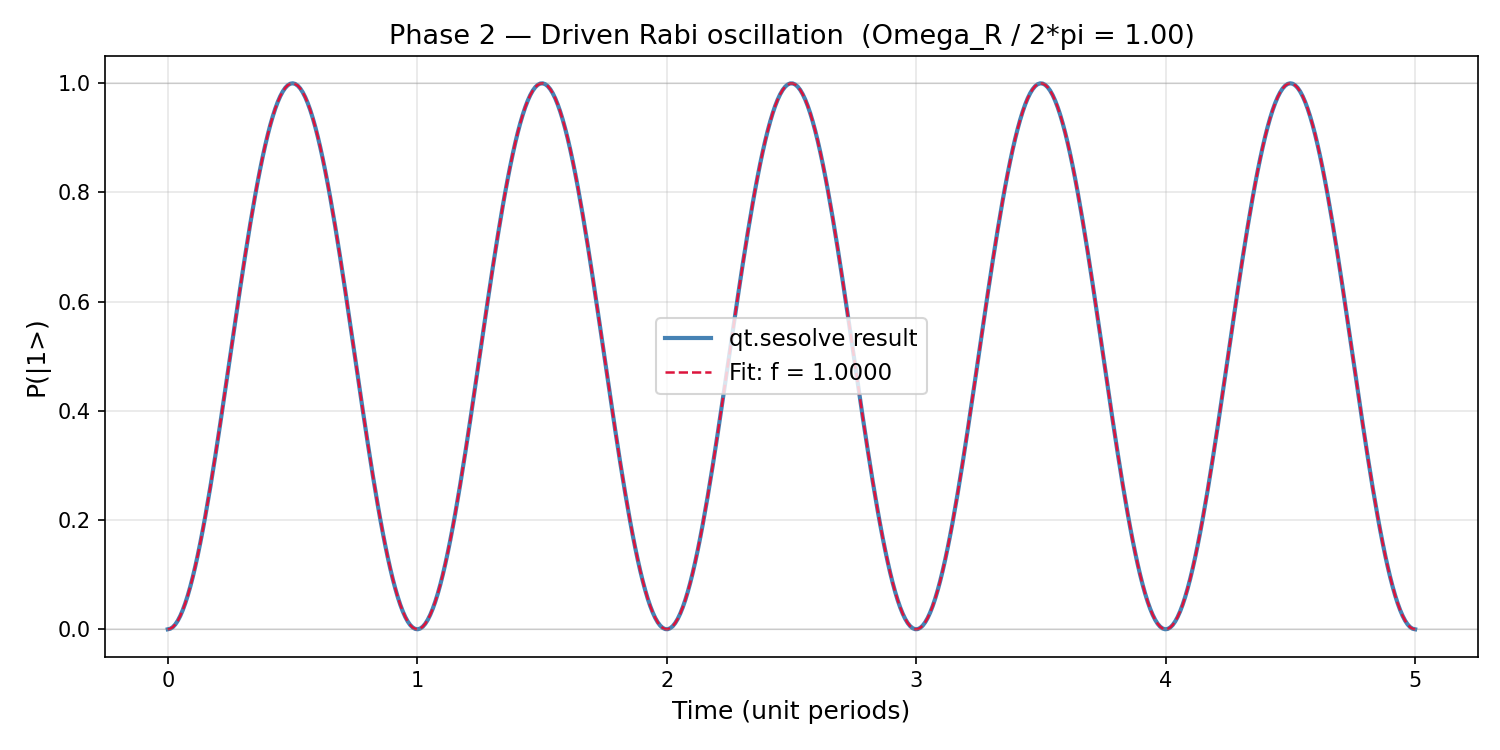
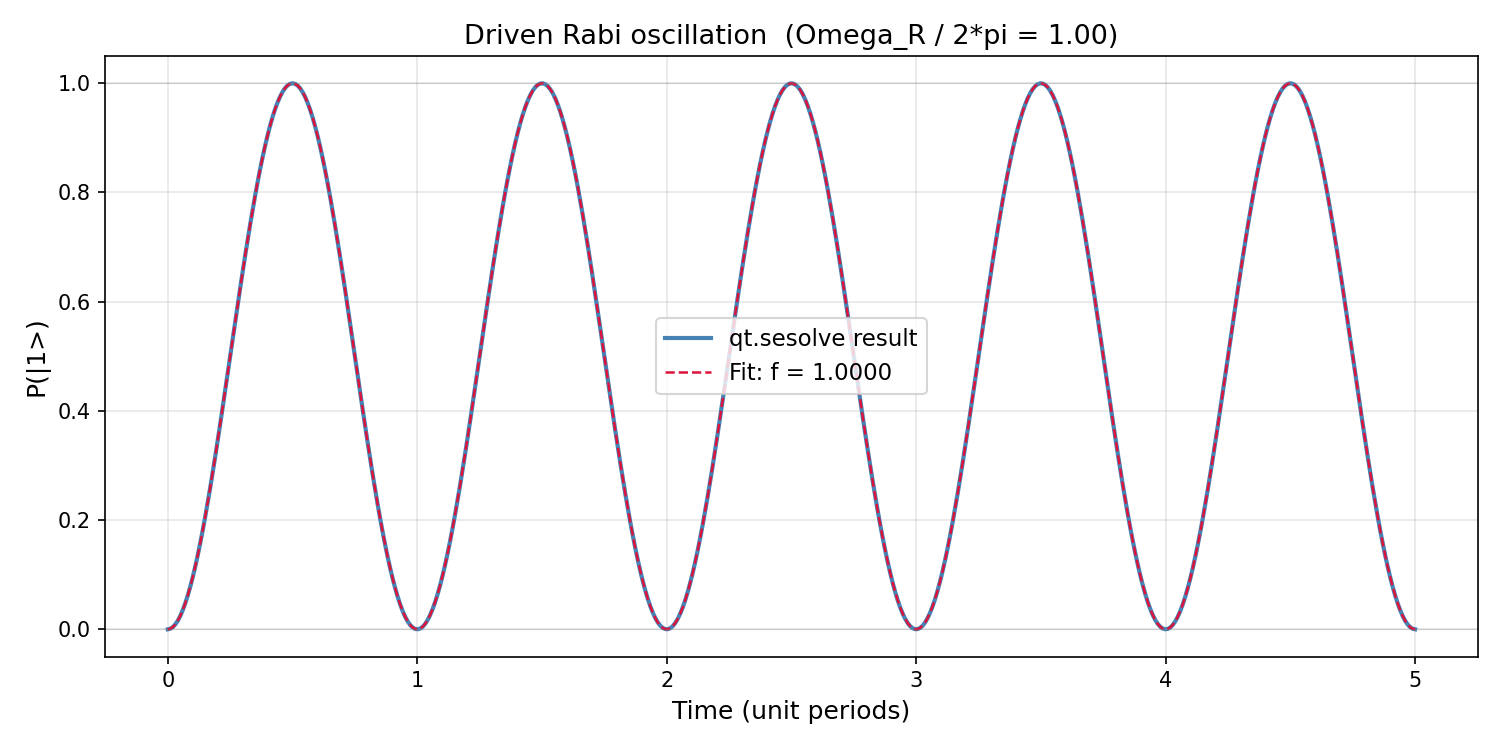
Regenerate Rabi plots: clean title, switch Bloch trajectory to plain matplotlib 3D

Changed region(s): [[0.2453, 0.0307, 0.7973, 0.0613]]

diff --git a/experiments/driven_rabi.py b/experiments/driven_rabi.py
@@ -109,27 +109,57 @@ print(f"Saved: {save_path}")
 # ── 6. BONUS: Bloch sphere trajectory ────────────────────────────────────────
 # Re-solve and capture the state at each time (states=True). This traces the
 # Bloch sphere trajectory of the precession.
+#
+# Plain matplotlib 3D is used here instead of qt.Bloch because qt.Bloch's
+# renderer produces an empty figure on some matplotlib + Windows setups.
 result_states = qt.sesolve(H, psi0, times)
 trajectory = result_states.states
 
 # Compute Bloch vector at every step
-sx_traj = [qt.expect(qt.sigmax(), s) for s in trajectory]
-sy_traj = [qt.expect(qt.sigmay(), s) for s in trajectory]
-sz_traj = [qt.expect(qt.sigmaz(), s) for s in trajectory]
+sx_traj = np.array([qt.expect(qt.sigmax(), s) for s in trajectory])
+sy_traj = np.array([qt.expect(qt.sigmay(), s) for s in trajectory])
+sz_traj = np.array([qt.expect(qt.sigmaz(), s) for s in trajectory])
 
 fig = plt.figure(figsize=(7, 7))
 ax = fig.add_subplot(111, projection="3d")
-b = qt.Bloch(axes=ax)
-b.add_points([sx_traj, sy_traj, sz_traj], meth="l")  # 'l' = line
-b.add_states(psi0)                                    # mark the start
-b.frame_alpha = 0.15
-b.point_color = ["crimson"]
-b.vector_color = ["darkblue"]
-b.render()
+
+# Bloch sphere wireframe (translucent)
+u, v = np.mgrid[0:2 * np.pi:30j, 0:np.pi:20j]
+sphere_x = np.cos(u) * np.sin(v)
+sphere_y = np.sin(u) * np.sin(v)
+sphere_z = np.cos(v)
+ax.plot_wireframe(sphere_x, sphere_y, sphere_z,
+                  color="gray", alpha=0.18, linewidth=0.4)
+
+# Cardinal axes through the sphere
+ax.plot([-1, 1], [0, 0], [0, 0], color="black", linewidth=0.6, alpha=0.4)
+ax.plot([0, 0], [-1, 1], [0, 0], color="black", linewidth=0.6, alpha=0.4)
+ax.plot([0, 0], [0, 0], [-1, 1], color="black", linewidth=0.6, alpha=0.4)
+
+# Pole / equator labels
+ax.text(0,    0,    1.18, r"$|0\rangle$",   fontsize=11, ha="center")
+ax.text(0,    0,   -1.22, r"$|1\rangle$",   fontsize=11, ha="center")
+ax.text(1.20, 0,    0,    r"$|+\rangle$",   fontsize=11)
+ax.text(0,    1.20, 0,    r"$|+i\rangle$",  fontsize=11)
+
+# Trajectory line
+ax.plot(sx_traj, sy_traj, sz_traj, color="crimson", linewidth=1.8,
+        label="trajectory")
+
+# Starting state marker (|0>, at the north pole)
+ax.scatter([sx_traj[0]], [sy_traj[0]], [sz_traj[0]],
+           color="darkblue", s=60, zorder=10, label="start")
+
+ax.set_xlim(-1.3, 1.3)
+ax.set_ylim(-1.3, 1.3)
+ax.set_zlim(-1.3, 1.3)
+ax.set_box_aspect((1, 1, 1))
+ax.set_axis_off()
 ax.set_title(f"Bloch trajectory under X drive  ({T_MAX:.0f} periods)",
              fontsize=12, pad=10)
+ax.legend(loc="upper left", fontsize=10, framealpha=0.85)
 
 save_path_bloch = OUTPUT_DIR / "driven_rabi_bloch_trajectory.png"
-plt.savefig(save_path_bloch, dpi=150, bbox_inches="tight")
+plt.savefig(save_path_bloch, dpi=150)
 plt.show()
 print(f"Saved: {save_path_bloch}")